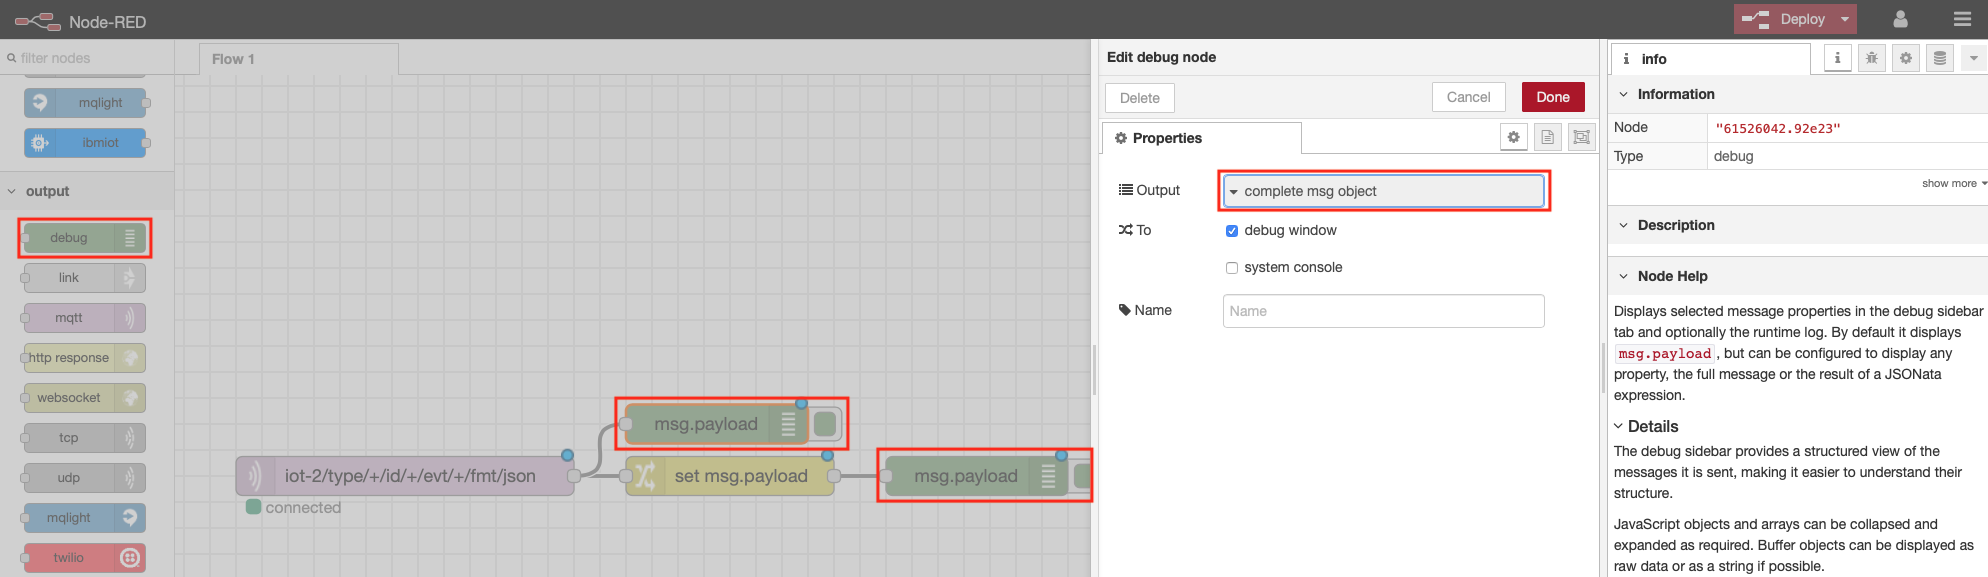
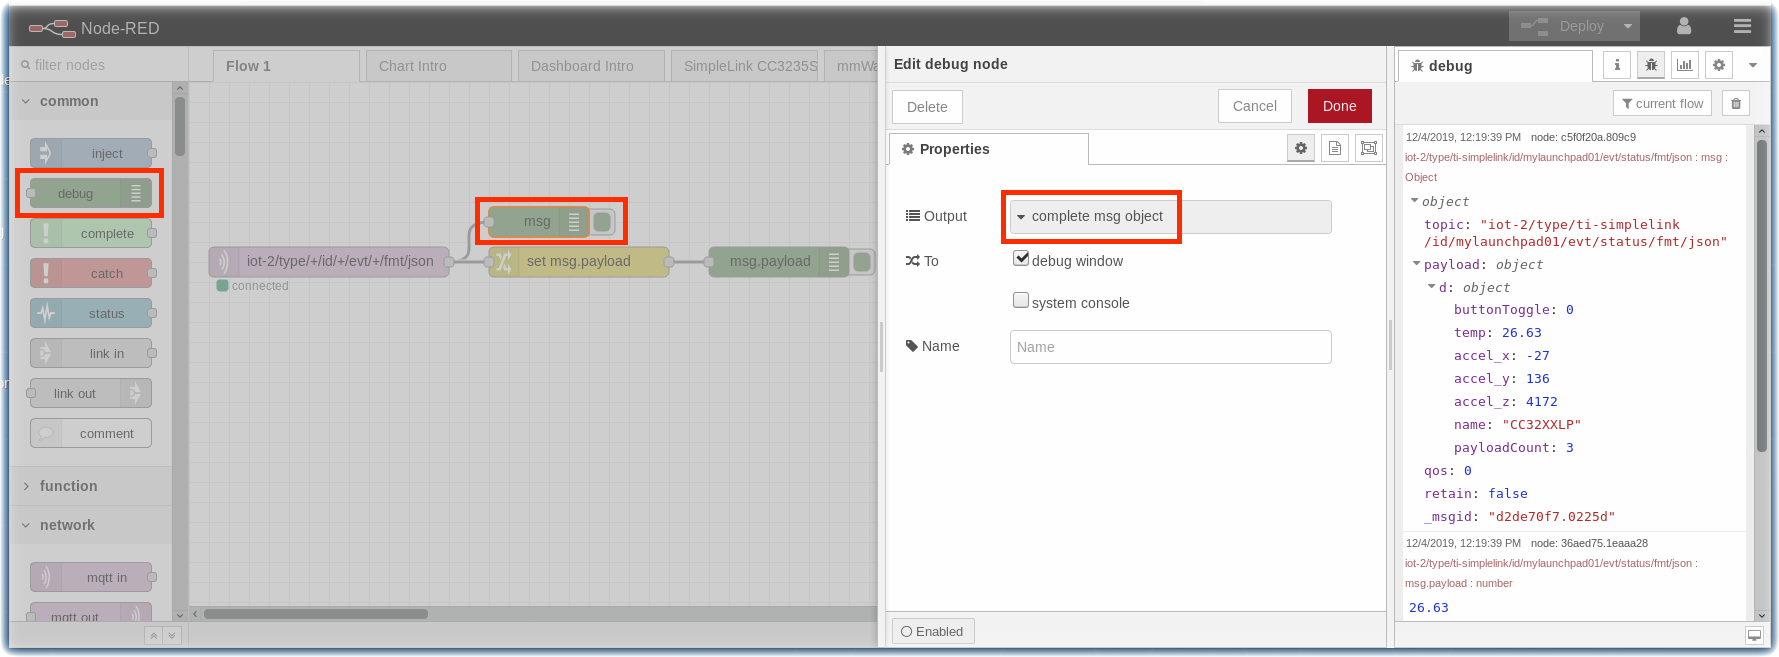
SimpleLink IoT Sensor Data

Changed region(s): [[0.0, 0.0, 1.0, 1.0]]

diff --git a/part2/SIMPLELINKIOTDATA.md b/part2/SIMPLELINKIOTDATA.md
@@ -6,22 +6,22 @@
 
 ## Lab Objectives
 
-In this lab you will build a flow that receives Device environmental temperature and humidity sensor data.  You will learn:
+In this lab you will build a flow that receives Device environmental temperature and motion sensor data.  You will learn:
 
 - How to create a new Node-RED flow and configure MQTT Nodes
-- How to output the Device environmental temperature and humidity data.
+- How to output the Device environmental temperature and motion data.
 - How to work with JSON data and observe the sensor results in the Debug sidebar.
 
 ### Introduction
 
 In just a few nodes, Node-RED can receive the data that was transmitted from the device over MQTT to Watson IoT Platform.  This simple exercise will be the foundation for the next several sections that plot the data in a dashboard, trigger Real Time threshold alerts, store the data in Cloud Storage and allow for data analytics and anomaly detection.
 
-### Step 1 - Extract the Temperature from the JSON Object
+### Step 1 - Extract the Temperature and Accelerometer data from the JSON Object
 
 - Recall that the environmental sensor data was transmitted in a JSON object
 
  ```
- { "d": {"temp":X, "humidity":Y }}
+ { "d": {"temp":26.63,"accel_x":-27,"accel_y":136,"accel_z":4172}}
  ```
 
 - Node-RED passes data from node to node in a *msg.payload* JSON object.
